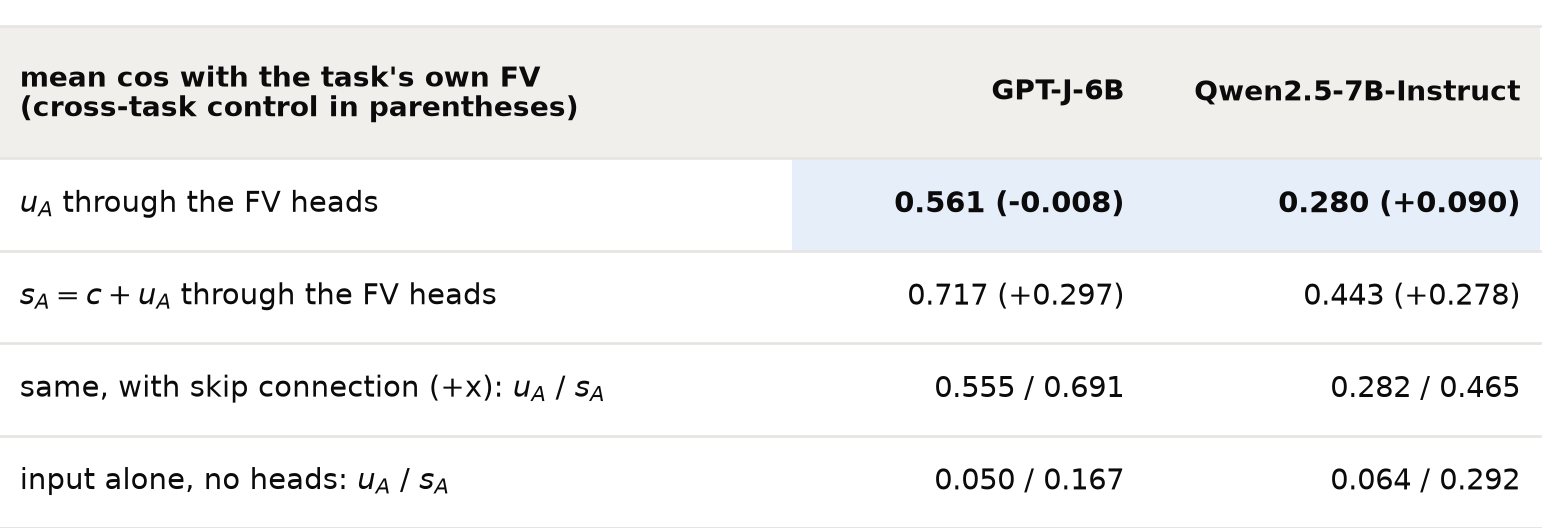
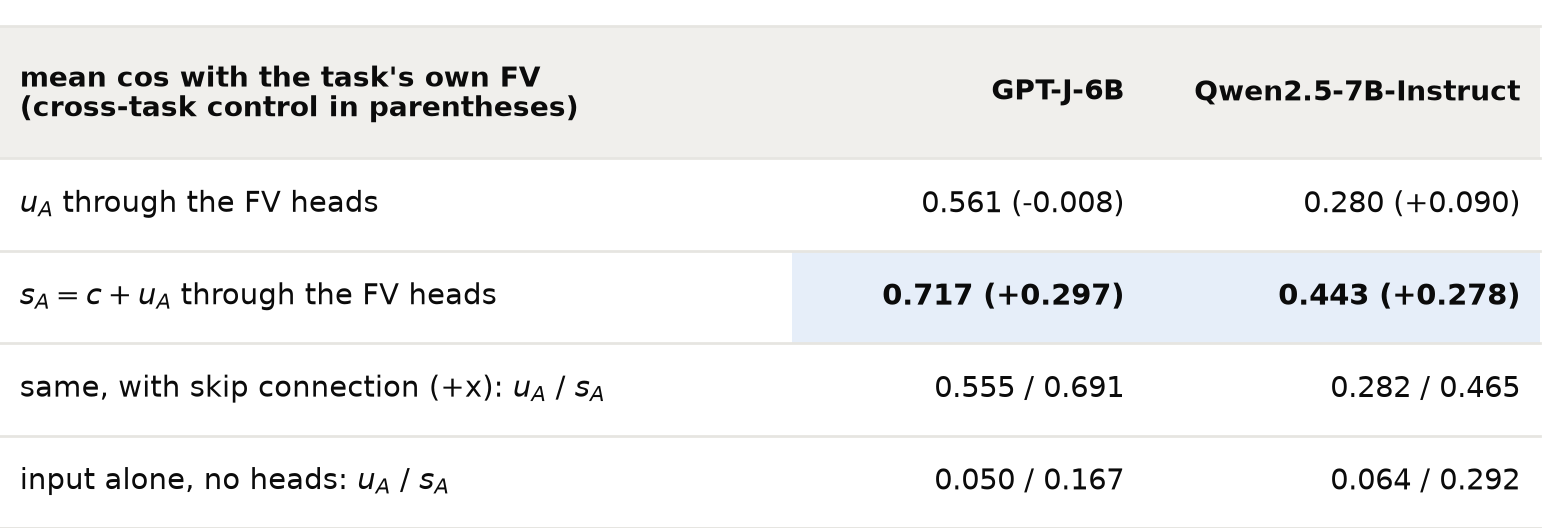
Proof-note OV table: highlight the s_A row (strongest own-FV cosines)

Changed region(s): [[0.4904, 0.303, 1.0, 0.6667]]

diff --git a/src/eval_scripts/plot_proof_note_figures.py b/src/eval_scripts/plot_proof_note_figures.py
@@ -128,7 +128,7 @@ def table_ov(out):
     rows.append(["$s_A = c + u_A$ through the FV heads"] + [f"{f(m,'s_A_noskip'):.3f} ({f(m,'s_A_noskip_cross'):+.3f})" for m, _, _ in MODELS])
     rows.append(["same, with skip connection (+x): $u_A$ / $s_A$"] + [f"{f(m,'u_A_skip'):.3f} / {f(m,'s_A_skip'):.3f}" for m, _, _ in MODELS])
     rows.append(["input alone, no heads: $u_A$ / $s_A$"] + [f"{f(m,'u_A_input_only'):.3f} / {f(m,'s_A_input_only'):.3f}" for m, _, _ in MODELS])
-    table_png(out, header, rows, [3.6, 1.6, 1.8], shade={(1, 1), (1, 2)})
+    table_png(out, header, rows, [3.6, 1.6, 1.8], shade={(2, 1), (2, 2)})   # strongest own-FV cosines (s_A row)
 
 
 def main():
